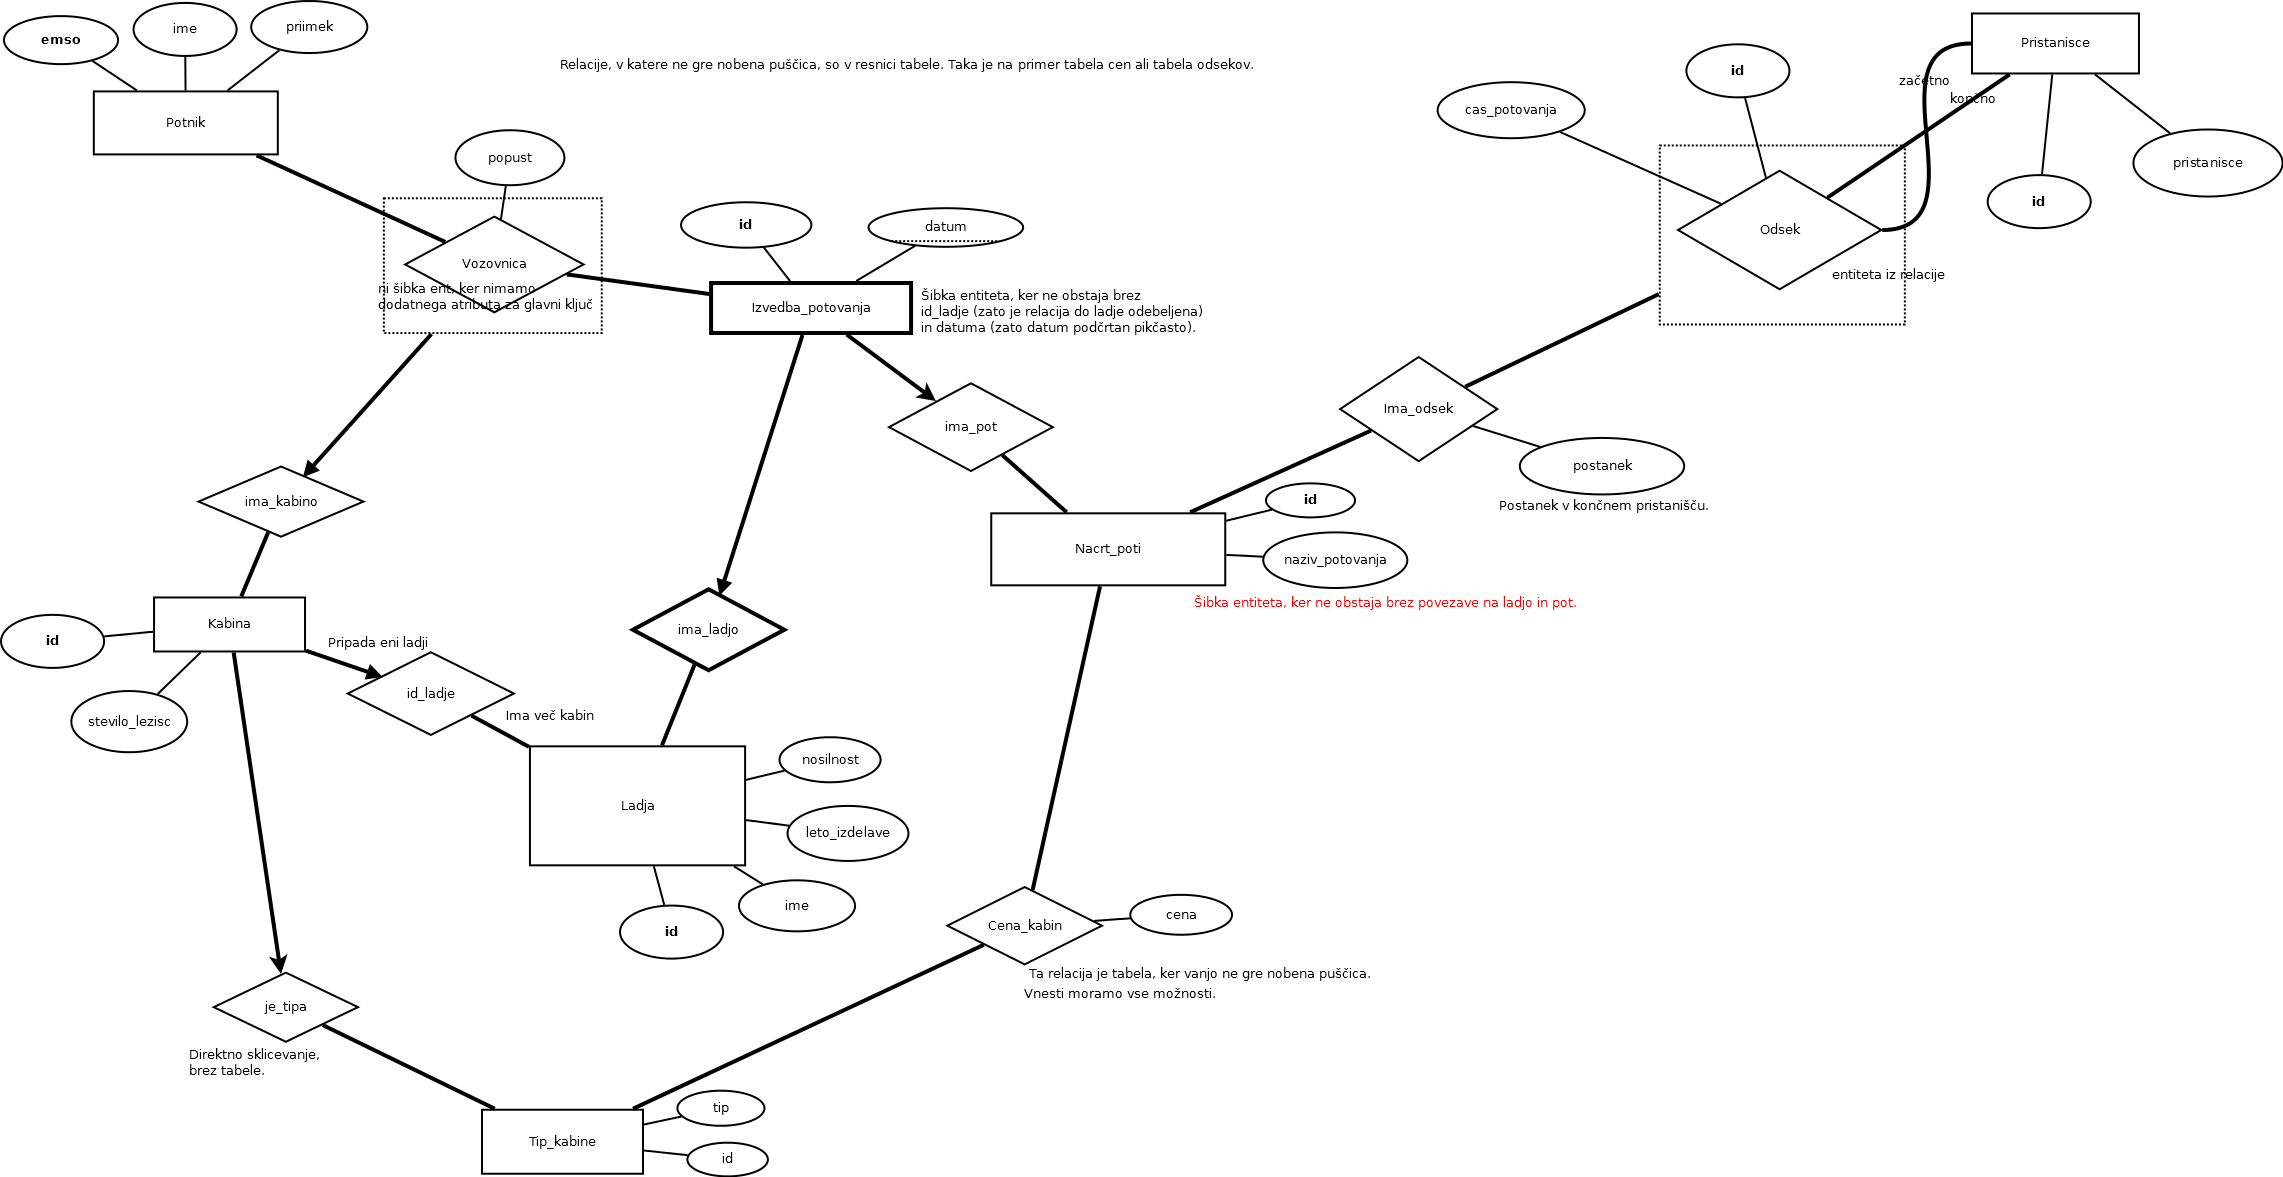
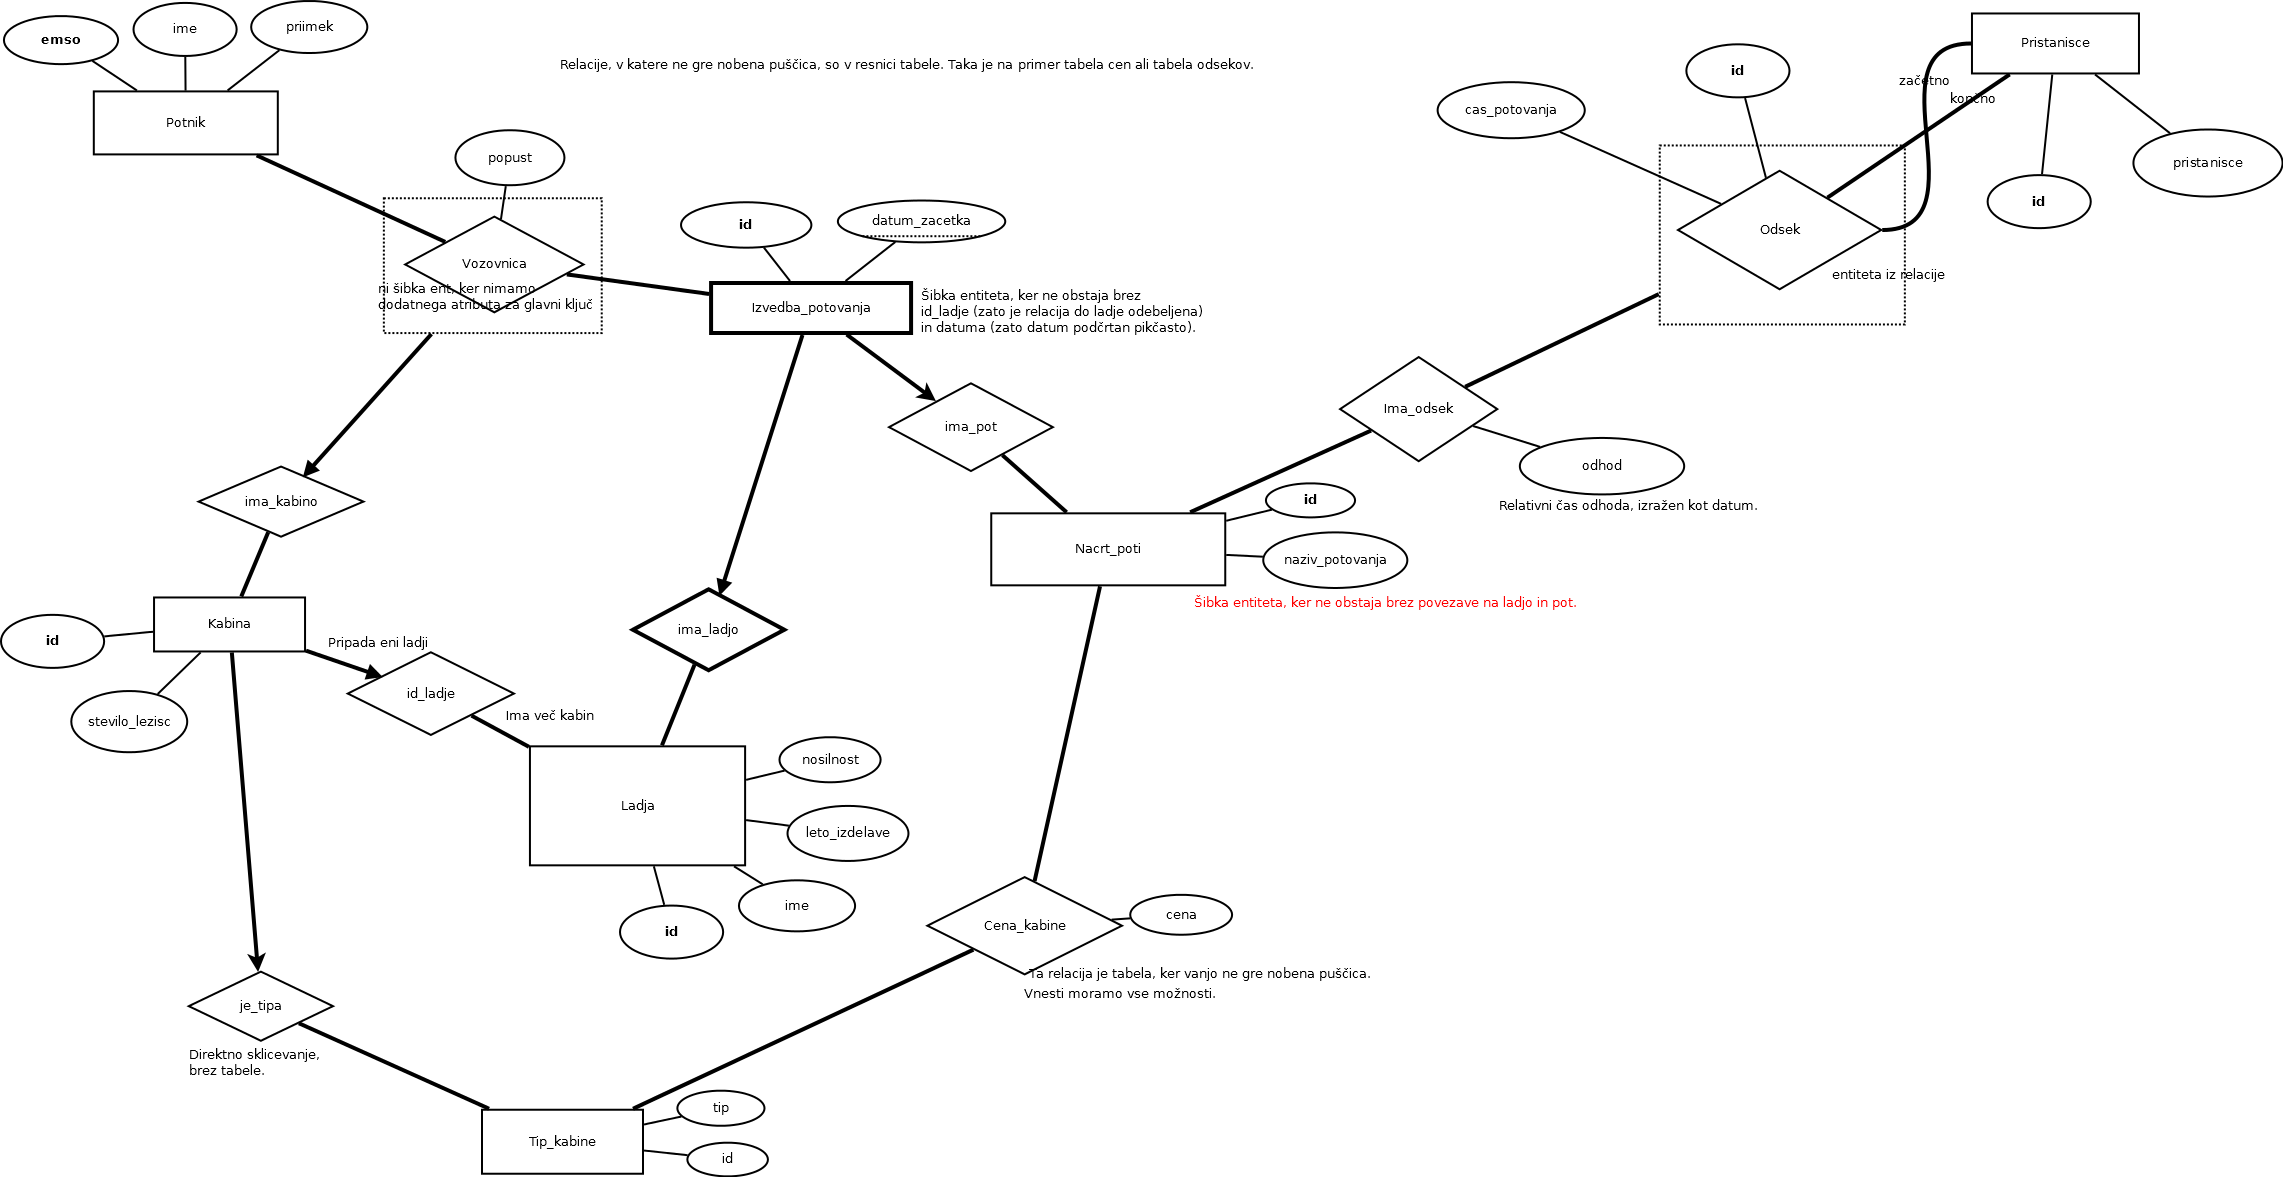
dodajanje nakupa vozovnic v bazo

diff --git a/views/potovanje.html b/views/potovanje.html
@@ -15,13 +15,14 @@
             <th scope="col">Tip kabine</th>
 			<th scope="col">Cena kabine</th>
 			<th scope="col">Ležišča</th>
+            <th scope="col">Zasedenost</th>
             <th scope="col">Vozovnice</th>
             <th scope="col">Nakup</th>
         </tr>
         </thead>
         <tbody>
 
-                %for id_potovanja, id_kabine, naziv_potovanja, datum_zacetka, ladja, tip_kabine, cena_kabine, stevilo_lezisc in potovanje:
+                %for id_izvedbe_potovanja, id_kabine, naziv_potovanja, datum_zacetka, ladja, tip_kabine, cena_kabine, stevilo_lezisc, zasedenost in potovanje:
                     <tr>
 
                         <td scope="row">{{naziv_potovanja}}</td>
@@ -30,15 +31,13 @@
                         <td>{{tip_kabine}}</td>
                         <td>{{cena_kabine}}</td>
                         <td>{{stevilo_lezisc}}</td>
+                        <td>{{zasedenost}}</td>
 
                         <form method="post" action="/nakup_vozovnice">
-                            <!--<input type="hidden" value="{{naziv_potovanja}}" name="naziv_potovanja"/>-->
-                            <!--<input type="hidden" value="{{datum_zacetka}}" name="datum_zacetka"/>-->
-                            <!--<input type="hidden" value="{{ladja}}" name="ladja"/>-->
-                            <input type="hidden" value="{{id_potovanja}}" name="id_potovanja">
+                            <input type="hidden" value="{{id_izvedbe_potovanja}}" name="id_izvedbe_potovanja">
                             <input type="hidden" value="{{id_kabine}}" name="id_kabine">
 
-                            <td><input type="number" name="stevilo_vozovnic" value="0" min="0" max="{{stevilo_lezisc}}"></td>
+                            <td><input type="number" name="stevilo_lezisc" value="0" min="0" max="{{stevilo_lezisc - zasedenost}}"></td>
                             <td><button class="gumb_nakup">Nadaljuj na nakup vozovnice</button></td>
                         </form>
                     </tr>

diff --git a/views/nakup_vozovnice.html b/views/nakup_vozovnice.html
@@ -2,13 +2,8 @@
 
 
     <h1 class="naslov">Nakup vozovnice</h1>
-
-    <div>
-        Število vozovnic: {{stevilo_vozovnic}}
-        Id potovanja: {{id_potovanja}}
-        Id kabine = {{id_kabine}}
-    </div>
-
+    Pravkar kupujete vozovnico za sledeče število ležišč: {{stevilo_lezisc}}
+    <div>Prosimo, vpišite svoje podatke.</div>
     <div>
         <form method="POST" action="/administrator/dodaj_vozovnico_v_bazo">
             <table>
@@ -41,6 +36,9 @@
                         &nbsp;
                     </td>
                     <td>
+                        <input type="hidden" value="{{stevilo_lezisc}}", name="stevilo_lezisc"/>
+                        <input type="hidden" value="{{id_izvedbe_potovanja}}", name="id_izvedbe_potovanja"/>
+                        <input type="hidden" value="{{id_kabine}}", name="id_kabine"/>
                         <input type="submit" value="Potrdi nakup vozovnice" name="dodaj" class="gumb"/>
                     </td>
                 </tr>

diff --git a/views/dodaj_nacrt_poti.html b/views/dodaj_nacrt_poti.html
@@ -1,4 +1,4 @@
-%rebase('osnova.html', naslov='Dodajanje načrta poti', navigator='/administrator/dodaj_nacrt_poti' )
+%rebase('osnova.html', naslov='Dodajanje načrta poti')
 
 
 <h1 class="naslov">Dodajanje odsekov v načrt potovanja</h1>
@@ -43,10 +43,10 @@
                 </fieldset>
             </tr>
             <td>
-                Postanek v končnem pristanišču:
+                Relativni čas odhoda iz začetnega pristanišča:
             </td>
             <td>
-                <input type="date" name="postanek" value=""/>
+                <input type="date" name="odhod" value=""/>
             </td>
             <tr>
                 <td>

diff --git a/views/dodaj_izvedbo_potovanja.html b/views/dodaj_izvedbo_potovanja.html
@@ -1,4 +1,4 @@
-%rebase('osnova.html', naslov='Dodajanje izvedbe potovanja', navigator='/administrator/dodaj_izvedbo_potovanja' )
+%rebase('osnova.html', naslov='Dodajanje izvedbe potovanja')
 
 
 <h1 class="naslov">Dodajanje odsekov v načrt potovanja</h1>

diff --git a/views/prijava_admin.html b/views/prijava_admin.html
@@ -1,4 +1,4 @@
-%rebase('osnova.html', naslov="Prijava administratorja", navigator='/prijava_admin')
+%rebase('osnova.html', naslov="Prijava administratorja")
 
     <form method="POST" action="/prijavi_administratorja">
         <table>

diff --git a/views/dodaj_pristanisce.html b/views/dodaj_pristanisce.html
@@ -1,4 +1,4 @@
-%rebase('osnova.html', naslov='Dodajanje pristanišča', navigator='/dodajPristanišče' )
+%rebase('osnova.html', naslov='Dodajanje pristanišča')
 
 
     <h1 class="naslov">Dodajanje posameznih pristanišč.</h1>

diff --git a/views/izpis_pristanisc.html b/views/izpis_pristanisc.html
@@ -1,4 +1,4 @@
-%rebase('osnova.html', naslov='Izpis pristanišč', navigator='/IzpisPristanišč' )
+%rebase('osnova.html', naslov='Izpis pristanišč')
 
 
 	<h1 class="naslov">Pristanišča, kamor plujemo:</h1>

diff --git a/views/dodaj_odsek.html b/views/dodaj_odsek.html
@@ -1,4 +1,4 @@
-%rebase('osnova.html', naslov='Dodajanje odseka', navigator='/dodajOdsek' )
+%rebase('osnova.html', naslov='Dodajanje odseka')
 
 
 	<h1 class="naslov">Dodajanje odseka.</h1>

diff --git a/views/dodaj_kabino.html b/views/dodaj_kabino.html
@@ -1,4 +1,4 @@
-%rebase('osnova.html', naslov='Dodajanje kabin', navigator='/dodajKabino' )
+%rebase('osnova.html', naslov='Dodajanje kabin')
 
 
 	<h1 class="naslov">Dodajanje kabin</h1>

diff --git a/views/dodaj_ladjo.html b/views/dodaj_ladjo.html
@@ -1,4 +1,4 @@
-%rebase('osnova.html', naslov='Dodajanje ladij', navigator='/dodajLadjo' )
+%rebase('osnova.html', naslov='Dodajanje ladij')
 
 
 	<h1 class="naslov">Dodajanje ladij</h1>

diff --git a/views/izpis_kabin.html b/views/izpis_kabin.html
@@ -1,4 +1,4 @@
-%rebase('osnova.html', naslov='Izpis kabin', navigator='/IzpisKabin' )
+%rebase('osnova.html', naslov='Izpis kabin')
 
 
     <h1 class="naslov">Kabine na ladjah:</h1>

diff --git a/views/izpis_ladij.html b/views/izpis_ladij.html
@@ -1,4 +1,4 @@
-%rebase('osnova.html', naslov='Izpis ladij', navigator='/IzpisLadij' )
+%rebase('osnova.html', naslov='Izpis ladij')
 
 
 <h1 class="naslov">Naše ladje:</h1>
